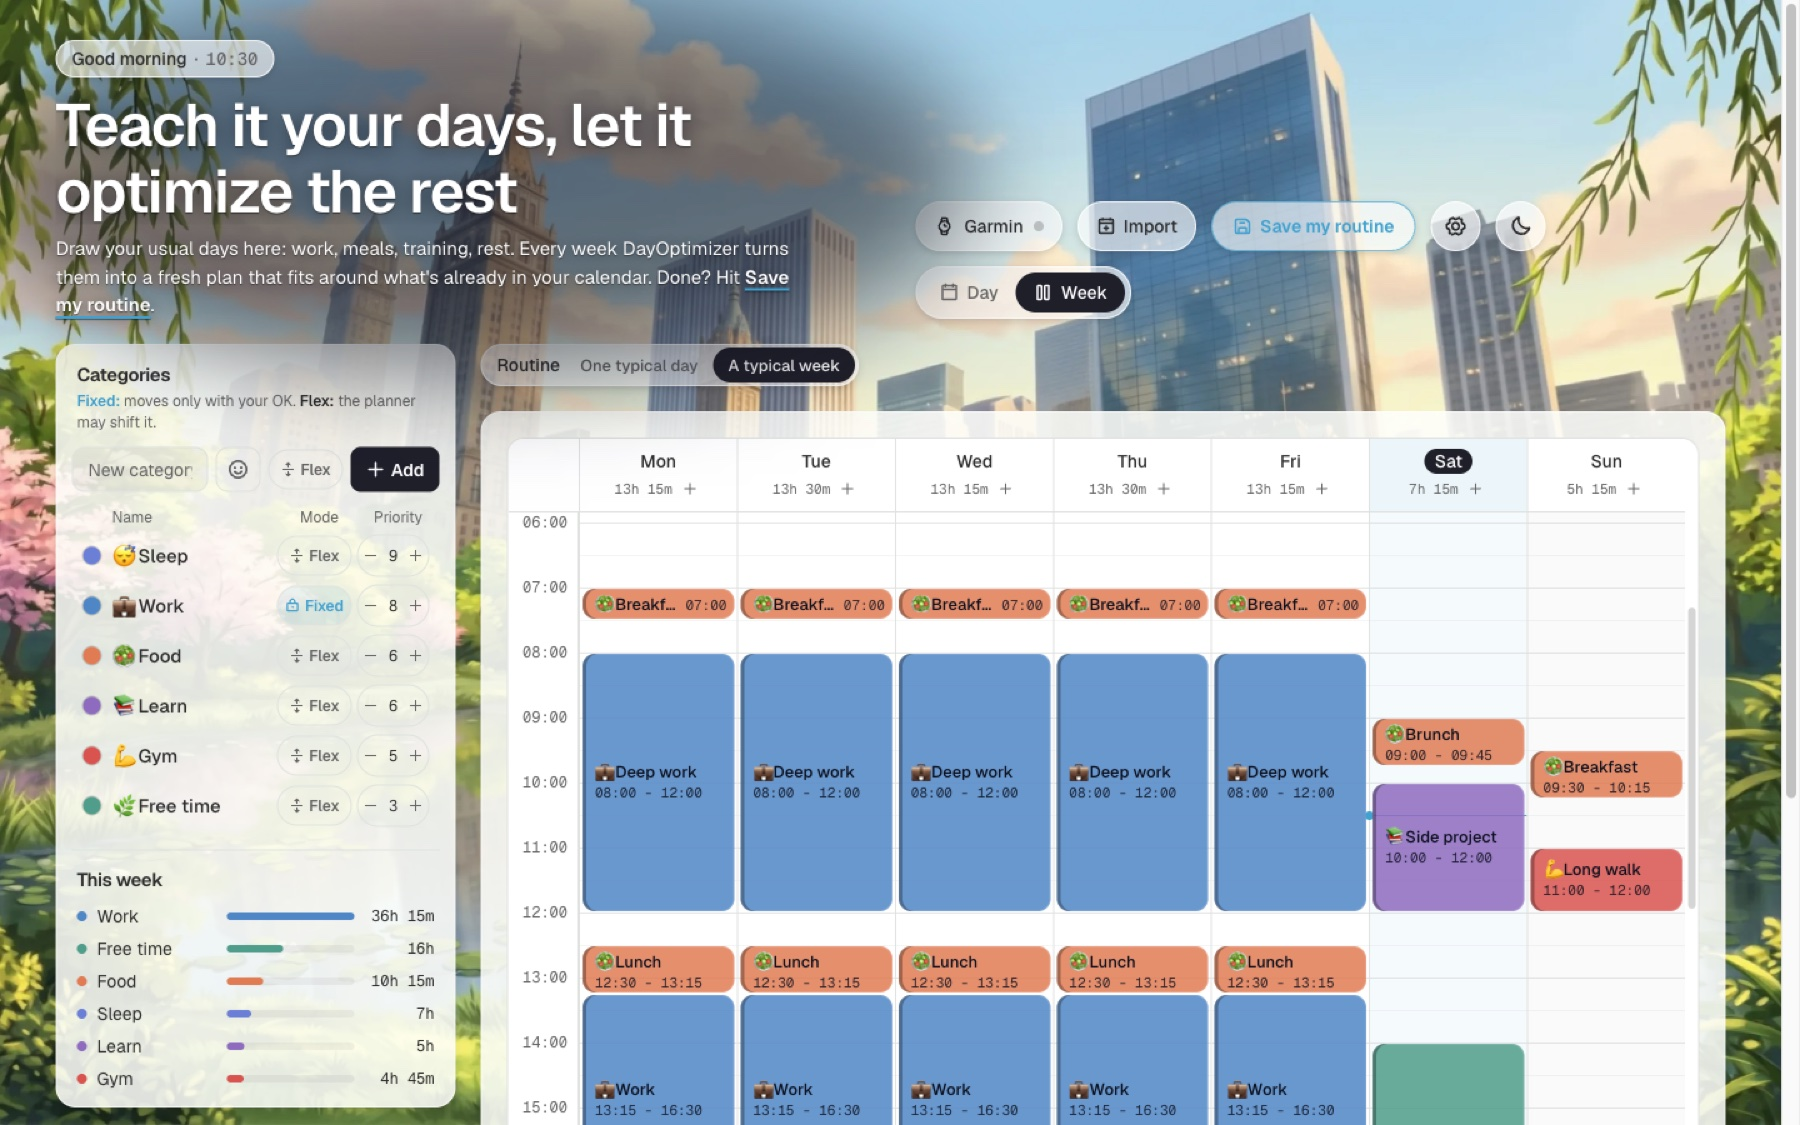
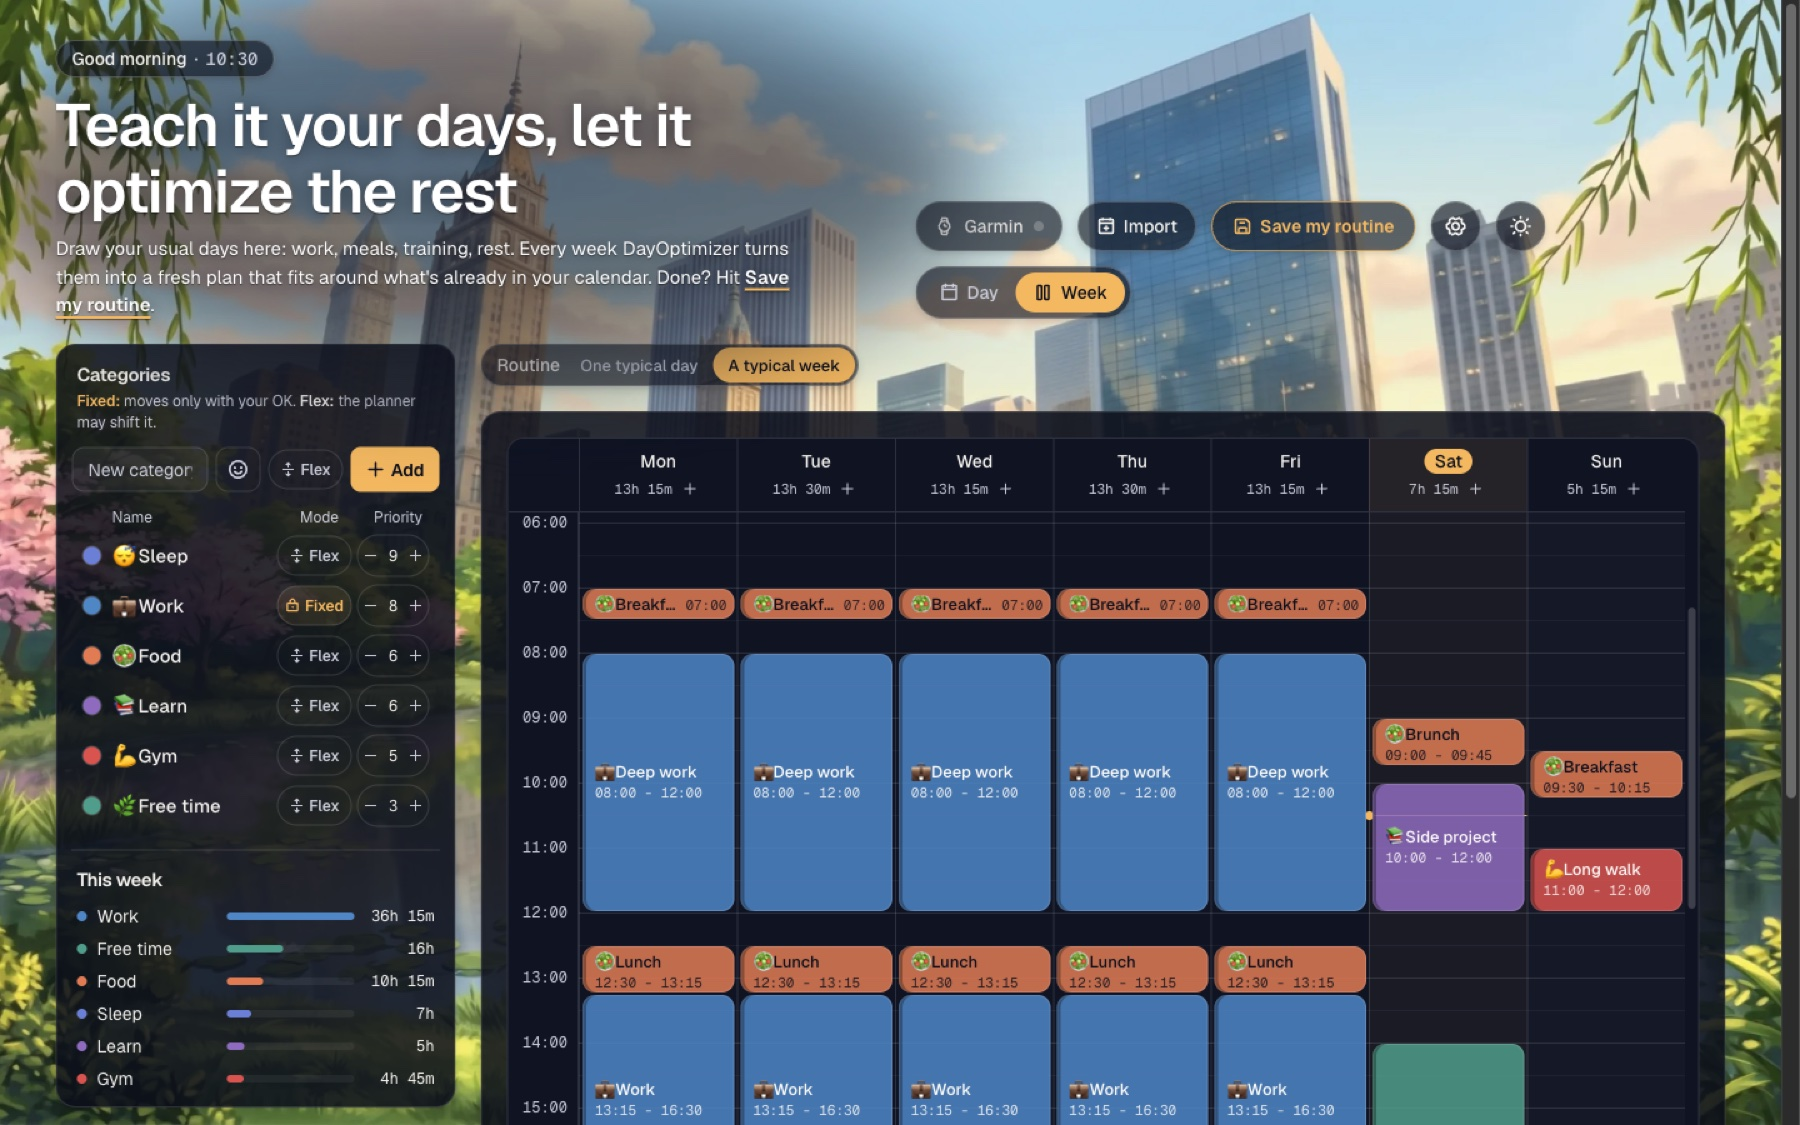
docs(readme): all screenshots in dark theme with the daytime background

diff --git a/README.md b/README.md
@@ -36,11 +36,11 @@ and it lays out every week around what is already in your calendar.
 
 <table>
   <tr>
-    <td width="50%"><img src="docs/images/day-dark.jpg" alt="Day view in dark theme"></td>
+    <td width="50%"><img src="docs/images/day.jpg" alt="Day view"></td>
     <td width="50%"><img src="docs/images/settings.jpg" alt="Settings: who plans, API key, health and privacy"></td>
   </tr>
   <tr>
-    <td align="center"><sub>Day view, dark theme</sub></td>
+    <td align="center"><sub>Day view: one day at a time</sub></td>
     <td align="center"><sub>Settings: local model or Claude, privacy</sub></td>
   </tr>
 </table>
